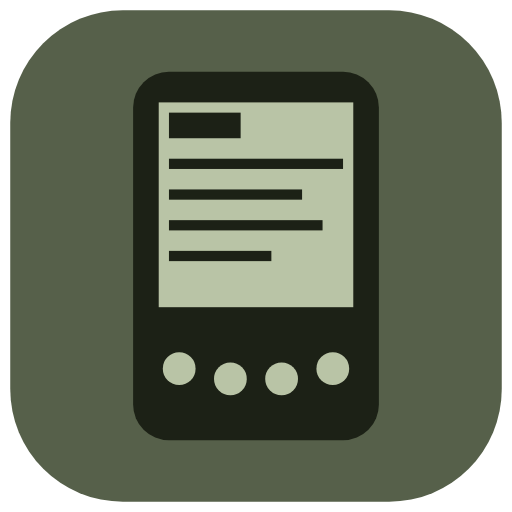
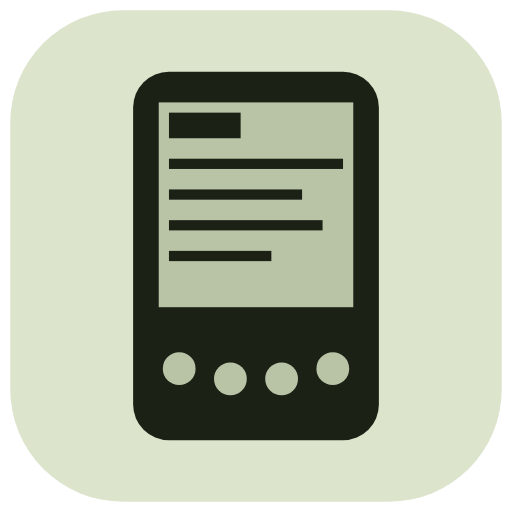
Add files via upload

diff --git a/clie.html b/clie.html
@@ -3,11 +3,11 @@
 <head>
 <meta charset="utf-8">
 <meta name="viewport" content="width=device-width, initial-scale=1, viewport-fit=cover">
-<title>CLIE 0.47.3</title>
+<title>CLIE 0.47.4</title>
 <meta name="theme-color" content="#1C2116">
 <link rel="manifest" href="./clie.webmanifest">
-<link rel="icon" href="./clie-192.png?v=0473" sizes="192x192" type="image/png">
-<link rel="apple-touch-icon" href="./clie-192.png?v=0473">
+<link rel="icon" href="./clie-192.png?v=0474" sizes="192x192" type="image/png">
+<link rel="apple-touch-icon" href="./clie-192.png?v=0474">
 <link rel="preconnect" href="https://fonts.googleapis.com">
 <link href="https://fonts.googleapis.com/css2?family=Pixelify+Sans:wght@400;600&display=swap" rel="stylesheet">
 <style>
@@ -899,7 +899,7 @@ button:focus-visible{outline:2px dotted var(--px);outline-offset:1px}
    lokal nicht in die Quere; zusammen kommen sie über Google Drive.
    ============================================================ */
 
-var APP_VERSION = '0.47.3';
+var APP_VERSION = '0.47.4';
 var DATEINAME   = 'workbench.json';
 var IDB_NAME    = 'clie-speicher';
 var IDB_STORE   = 'handles';

diff --git a/sw-clie.js b/sw-clie.js
@@ -12,7 +12,7 @@
 
 'use strict';
 
-var VORRAT = 'clie-vorrat-2';   /* 2: neues App-Symbol (CLIE 0.47.3) */
+var VORRAT = 'clie-vorrat-3';   /* 3: helles App-Symbol (CLIE 0.47.4) */
 var PRAEFIX = 'clie-';
 var GRUNDLAGE = [
   './clie.html',
